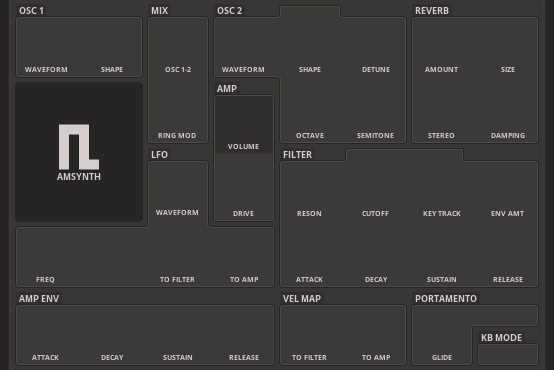
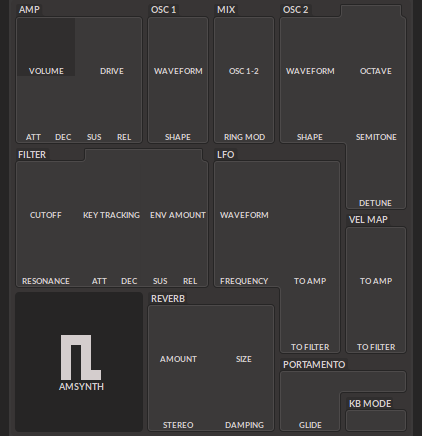
Rearranged controls in a 6x6 layout

diff --git a/README.md b/README.md
@@ -1,5 +1,5 @@
 # Etna
-A skin for amsynth - Analog Modelling Synthesizer
+A skin for [amsynth](https://amsynth.github.io/) - Analog Modelling Synthesizer
 
 ![screenshot](https://github.com/turisc/amsynth-skin-etna/raw/master/amsynth-skin-etna-screenshot.png)
 
